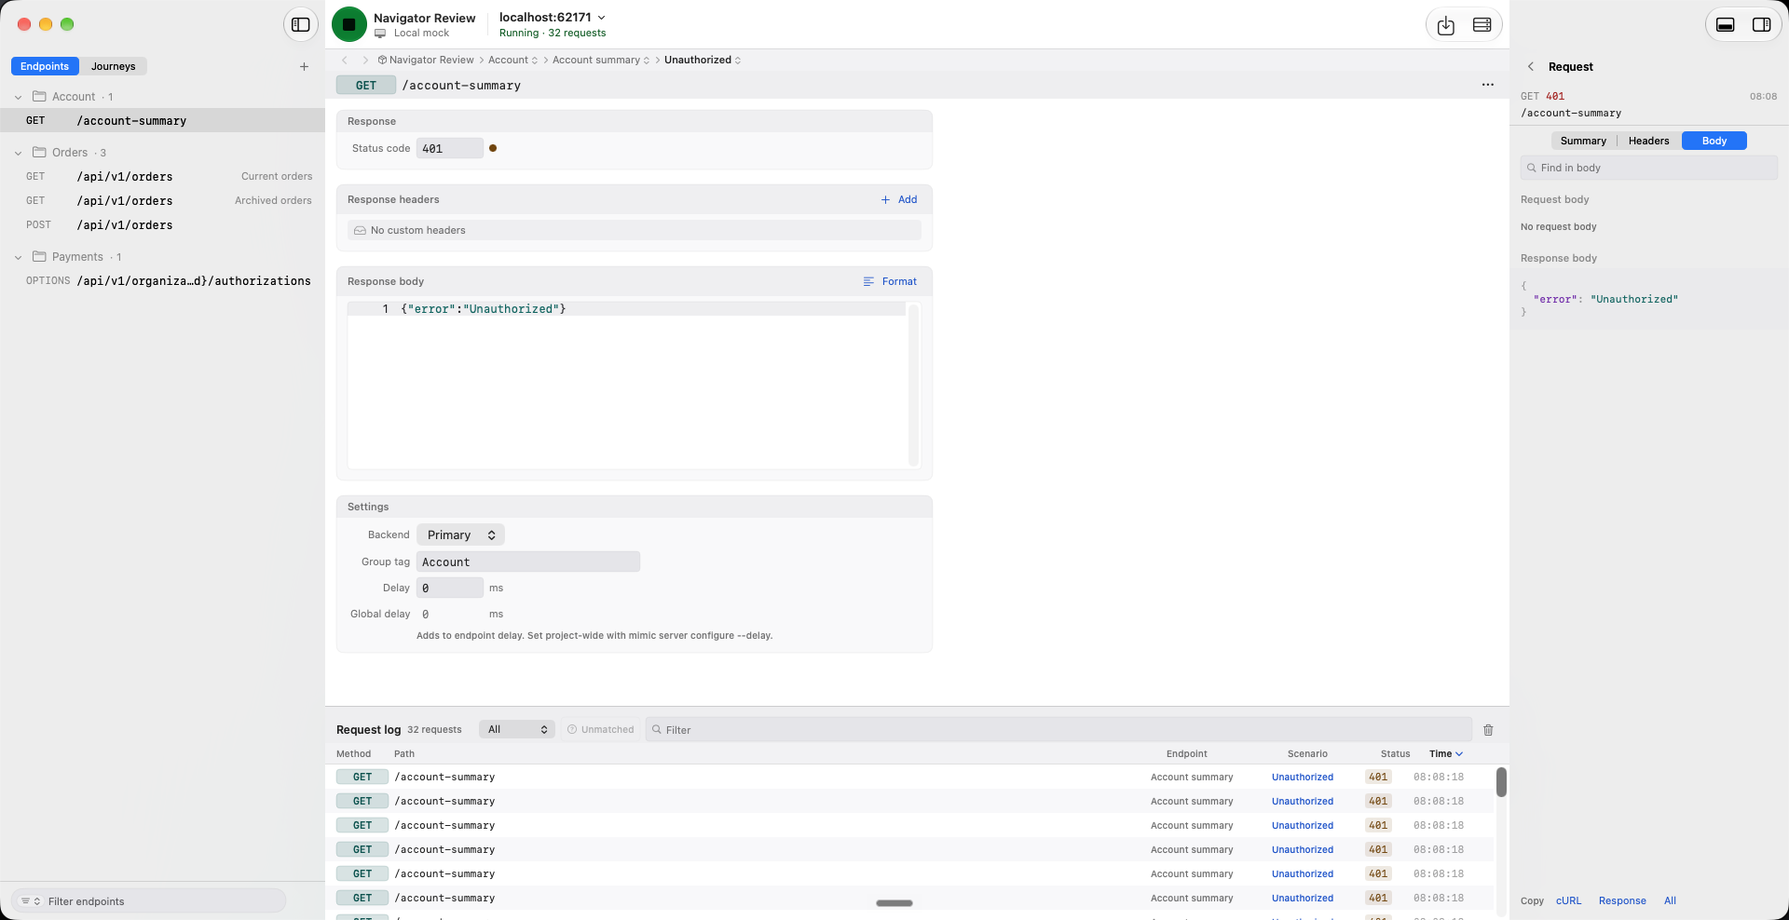
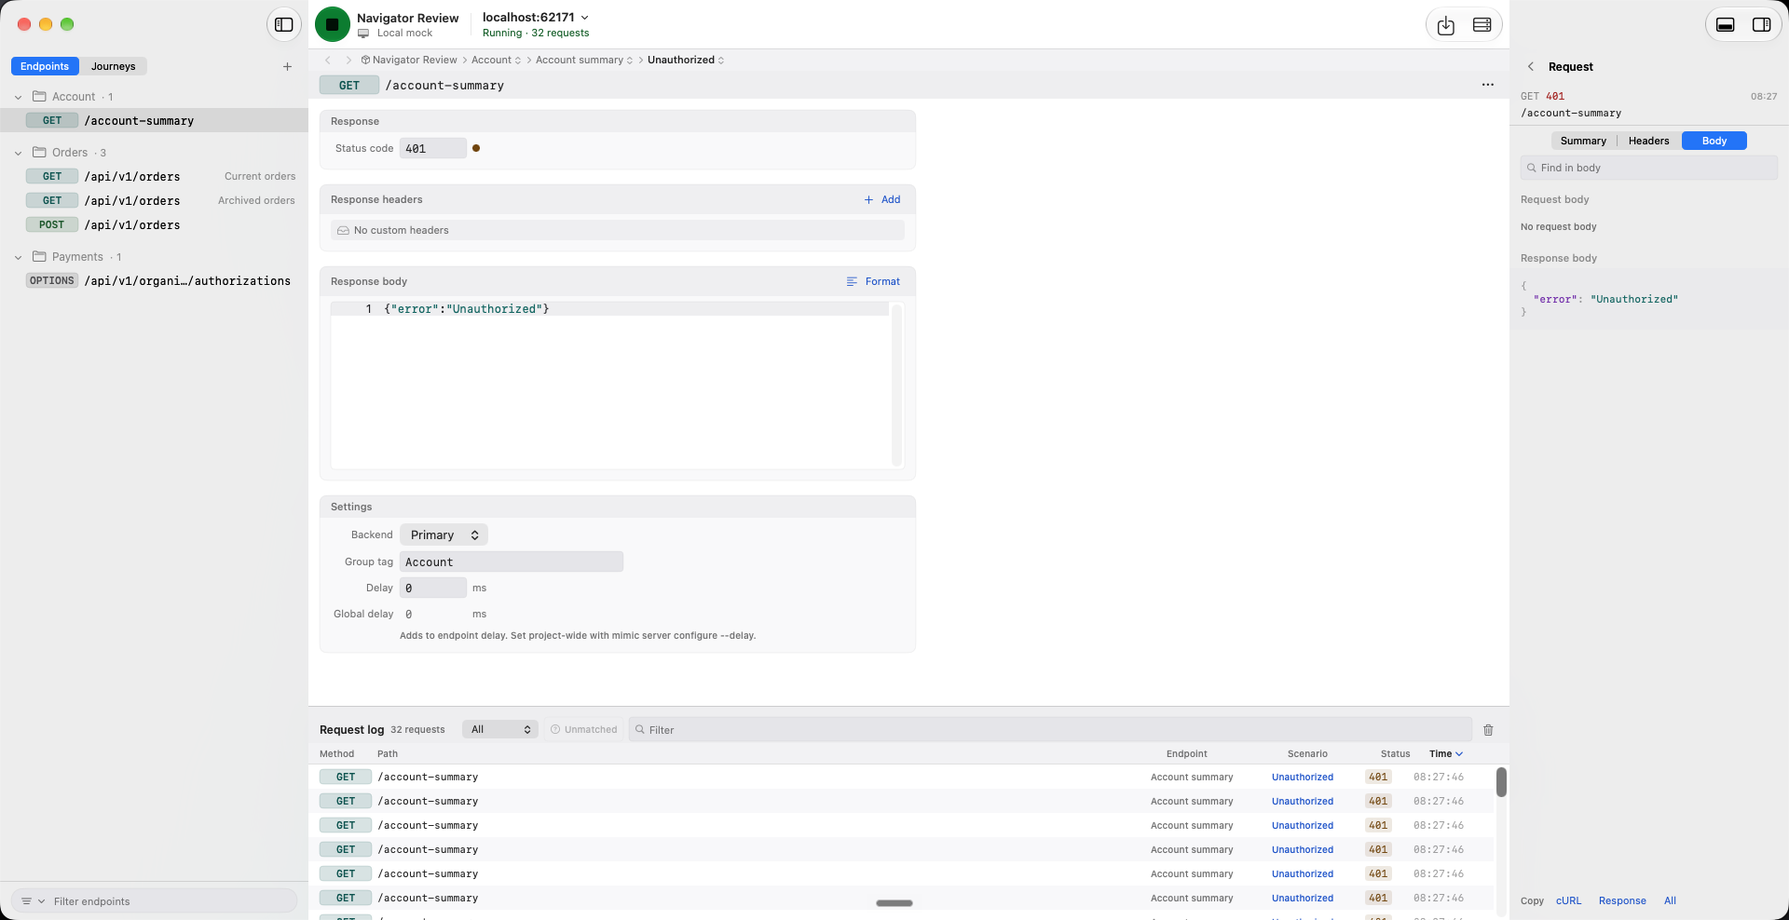
Balance navigator filter padding and restore colored method pills

diff --git a/Sources/DesignSystem/Components/DSFilterField.swift b/Sources/DesignSystem/Components/DSFilterField.swift
@@ -1,10 +1,7 @@
 import SwiftUI
 
-/// A 26-point panel search field with an optional scope selector and keyboard focus ring.
-/// The containing group preserves the field, scope and clear-control accessibility identifiers.
+/// A 26-point filter well. Scope, text, and clear controls share one vertically centered row.
 public struct DSFilterField: View {
-    /// One thing the filter can be pointed at. The `id` is what the caller stores; the `title` is
-    /// only ever shown.
     public struct Scope: Identifiable, Equatable, Sendable {
         public let id: String
         public var title: String
@@ -20,30 +17,10 @@ public struct DSFilterField: View {
     private let scopes: [Scope]
     private let placeholder: String
     private let identifier: String
-
-    /// Keyboard focus, so the well answers the Tab key the way it already answers the pointer.
-    ///
-    /// `.textFieldStyle(.plain)` discards AppKit's own focus ring, and nothing replaced it — so this
-    /// field, the request log's and the request detail's were three places in the workspace where
-    /// tabbing in changed nothing on screen. That is the same defect as a control with no hover
-    /// state, applied to the keyboard, and for Full Keyboard Access it is not a polish item.
-    /// `DSTextField` already draws exactly this ring; it was simply the only thing in the module that
-    /// did.
-    ///
-    /// The line is the whole contract, and a field that does not adopt this component still owes it
-    /// to the keyboard: `DSColors.borderFocused` at `DSStroke.focusRing`, against `DSColors.border`
-    /// at `DSStroke.hairline` at rest. Adopting is not the only way to draw it — this well is a
-    /// capsule built around a scope pill, and a header row of rectangular wells has a reason to keep
-    /// its own shape and draw the same line itself.
     @FocusState private var isFocused: Bool
 
-    public init(
-        text: Binding<String>,
-        scopeID: Binding<String>,
-        scopes: [Scope],
-        placeholder: String,
-        identifier: String
-    ) {
+    public init(text: Binding<String>, scopeID: Binding<String>, scopes: [Scope],
+                placeholder: String, identifier: String) {
         self._text = text
         self._scopeID = scopeID
         self.scopes = scopes
@@ -52,16 +29,10 @@ public struct DSFilterField: View {
     }
 
     public var body: some View {
-        HStack(spacing: DSSpacing.xs) {
-            // Absent rather than disabled when there is nothing to choose between: a dead control
-            // in a compact row is worse than no control, because it still costs width.
+        HStack(spacing: DSSpacing.sm) {
             if !scopes.isEmpty {
                 ScopeMenu(scopes: scopes, scopeID: $scopeID, identifier: identifier)
             }
-
-            // No magnifying glass. Xcode's filter bar has none, and here it would land immediately
-            // beside the scope pill — two glyphs fighting over the same corner, one of which only
-            // repeats what the placeholder already says.
             TextField(placeholder, text: $text)
                 .textFieldStyle(.plain)
                 .font(DSTypography.label)
@@ -70,62 +41,30 @@ public struct DSFilterField: View {
                 .accessibilityLabel(placeholder)
 
             if !text.isEmpty {
-                DSClearButton(
-                    text: $text,
-                    identifier: "\(identifier).clear",
-                    label: "Clear filter",
-                    help: "Clear the filter"
-                )
+                DSClearButton(text: $text, identifier: "\(identifier).clear",
+                              label: "Clear filter", help: "Clear the filter")
             }
         }
-        // The well. A full capsule, not a 4pt rounded rectangle: at this height the rectangle read
-        // as a text field that had wandered out of a form, while the capsule reads as one recessed
-        // track with controls living inside it — which is the whole point, since the scope pill and
-        // the clear button are inside it rather than beside it. Fill, hairline and padding are
-        // unchanged, so the row keeps its height and the sidebar keeps its rhythm.
-        .padding(.horizontal, DSSpacing.sm)
-        // Match request-log and request-body search fields without changing table row density.
+        .padding(.horizontal, DSSpacing.smPlus)
         .frame(height: DSControlHeight.search)
         .background {
             Capsule()
                 .fill(DSColors.tertiary)
-                // Focused, the well differs from its neighbours by *state* and by nothing else —
-                // same colour and same weight `DSTextField` uses, so the two read as one idiom.
-                .stroke(
-                    isFocused ? DSColors.borderFocused : DSColors.border,
-                    lineWidth: isFocused ? DSStroke.focusRing : DSStroke.hairline
-                )
-                // The whole track takes focus, not just the glyph-height strip the text occupies.
-                // AppKit's search field does this from anywhere inside its bezel, and here the
-                // difference is most of the control: the well is 26pt tall around one line of
-                // `codeSmall`, with `DSSpacing.sm` either side. It sits on the background rather
-                // than on the container so the text field, the scope pill and the clear button all
-                // keep the clicks that reach them — this only catches the ones that would land on
-                // nothing.
+                .stroke(isFocused ? DSColors.borderFocused : DSColors.border,
+                        lineWidth: isFocused ? DSStroke.focusRing : DSStroke.hairline)
                 .contentShape(Capsule())
                 .onTapGesture { isFocused = true }
         }
         .animation(.easeOut(duration: DSAnimation.fast), value: isFocused)
-        // Keep the child controls distinct. Naming this container can flatten its identifier onto
-        // the text field on one macOS release and hide that field on another.
+        // Preserve the individual field, scope, and clear identifiers for keyboard and UI tests.
         .accessibilityElement(children: .contain)
     }
 
-    /// The scope pill.
-    ///
-    /// Wordless while unscoped — a filter glyph and a chevron — because the unrestricted case is the
-    /// default, and spending a title on "no restriction is in force" takes the width away from the
-    /// text being typed. A scope that *is* cutting results down says so: it shows its title and
-    /// turns accent-coloured, because a filter silently hiding rows with no visible sign of it is
-    /// the worse failure, and it is worth the width every time it happens.
-    ///
-    /// AppKit realizes a SwiftUI `Menu` as a menu button rather than a button, so a UI test looks
-    /// for this under `menuButtons`/`popUpButtons`, not `buttons`.
+    /// The field supplies the bezel; this menu needs only a readable glyph and a full-height target.
     private struct ScopeMenu: View {
-        let scopes: [DSFilterField.Scope]
+        let scopes: [Scope]
         @Binding var scopeID: String
         let identifier: String
-
         @State private var isHovered = false
 
         var body: some View {
@@ -134,128 +73,44 @@ public struct DSFilterField: View {
                     Button(scope.title) { scopeID = scope.id }
                 }
             } label: {
-                HStack(spacing: DSSpacing.xxs) {
-                    // The filter glyph, not a magnifier, and that is a decision rather than an
-                    // oversight: this component narrows a list that is already on screen, and every
-                    // string around it agrees — "Filter endpoints", "Clear filter", "Choose what the
-                    // filter searches". The magnifier belongs to the request detail's "Find in body",
-                    // which really is a search. See the type's note for why one would not fit here
-                    // anyway: it would land immediately beside this pill, two glyphs in one corner.
-                    //
-                    // `inlineSmall`, the quiet end of the inline tier: this glyph qualifies the pill
-                    // rather than being the pill's affordance — the chevron below is that — so it
-                    // sits a step under the title it may appear beside.
+                HStack(spacing: DSSpacing.xs) {
                     Image(systemName: "line.3.horizontal.decrease")
-                        .font(.system(size: DSGlyph.inlineSmall, weight: .medium))
-
+                        .font(.system(size: DSGlyph.control, weight: .medium))
                     if isScoped {
-                        // Truncated, because the pill is `.fixedSize()` below and a scope title is
-                        // caller-supplied text: without a limit the pill demands its ideal width from
-                        // a well that may be 120pt wide, and an `HStack` settles that by pushing its
-                        // *leading* edge — this pill — out of view. `DSPanelHeader` shipped exactly
-                        // that, rendering "narios" for "Scenarios".
                         Text(title)
                             .font(DSTypography.caption)
                             .lineLimit(1)
                             .truncationMode(.tail)
                     }
-
-                    // At rest this is the *only* thing saying the pill is a control, because the pill
-                    // has no title until a scope is chosen. Without a visible mark it reads as
-                    // decoration sitting where a search field's magnifier usually sits, and the scope
-                    // is never discovered — which is what a look at the running sidebar found.
-                    //
-                    // `chevron.up.chevron.down`, not a lone `chevron.down`: this picks one of N values
-                    // and shows the one in force, which is a pop-up, and it is the same mark
-                    // `BreadcrumbJumpBar` puts on a crumb that has siblings. `DSGlyph.indicator` is
-                    // the window's menu-indicator size, and it sits on `DSGlyph.minimum` — the floor
-                    // below which a mark stops reading as a mark. This pill is the case that floor
-                    // was written for.
-                    //
-                    // It takes the pill's own colour rather than dropping to `labelTertiary` the way
-                    // the breadcrumb's does. There a title carries the message and the chevron only
-                    // annotates it; here there is no title to annotate.
-                    Image(systemName: "chevron.up.chevron.down")
+                    Image(systemName: "chevron.down")
                         .font(.system(size: DSGlyph.indicator, weight: .semibold))
                 }
-                .foregroundStyle(foreground)
-                .padding(.horizontal, DSSpacing.xs)
-                .padding(.vertical, 1)
+                .foregroundStyle(isScoped ? DSColors.accentText
+                                 : isHovered ? DSColors.labelPrimary : DSColors.labelSecondary)
+                .padding(.horizontal, DSSpacing.xxs)
+                .frame(height: DSControlHeight.field)
                 .background {
-                    // Fill *and* hairline. The fill on its own was `secondary` sitting on the field's
-                    // `tertiary` track: 3% apart in light mode, and inverted in dark, where
-                    // `secondary` is the *darker* of the two — so the pill read as a deeper recess
-                    // than the well it sits inside rather than as a control on top of it. No surface
-                    // token is raised against `tertiary` in both appearances, which is precisely the
-                    // case `DSButton`'s secondary variant states a hairline for: a control stays
-                    // visible on any surface only when it does not borrow that surface's colour.
-                    Capsule()
-                        .fill(DSColors.secondary)
-                        .stroke(DSColors.border, lineWidth: DSStroke.hairline)
+                    RoundedRectangle(cornerRadius: DSCornerRadius.sm)
+                        .fill(isHovered || isScoped ? DSColors.accentSubtle : .clear)
                 }
+                .contentShape(Rectangle())
             }
             .onHover { isHovered = $0 }
             .animation(.easeOut(duration: DSAnimation.micro), value: isHovered)
-            // `.button` + `.plain`, the same pairing `BreadcrumbJumpBar`'s crumb menu wears, and for
-            // the same reason: the label above draws every pixel of this control — its own foreground,
-            // its own capsule, its own chevron — so the button style must contribute nothing.
-            //
-            // `.plain` and not the `.borderless` that Apple's deprecation message for
-            // `.menuStyle(.borderlessButton)` literally names ("use `menuStyle(.button)` and
-            // `buttonStyle(.borderless)`"). That recipe is right about the *menu* style; it is the
-            // wrong half to copy for a label that draws itself, because `.borderless` supplies a
-            // system accent tint to content whose colour this pill sets and switches on `isScoped`.
-            //
-            // The note it replaces cited the deprecation message and stopped there, so nothing in
-            // this file ever addressed the only thing that actually differed from the breadcrumb —
-            // one word — while a comment on each side defended its own. That is what was fixed. What
-            // is *not* claimed: that the style was why a look at the running sidebar found this pill
-            // rendering as a bare glyph. The fill below is a proven cause of that on its own, and the
-            // two were not isolated from each other.
             .menuStyle(.button)
             .buttonStyle(.plain)
-            // The chevron is drawn above; the system indicator would be a second one.
             .menuIndicator(.hidden)
-            // Without this the menu stretches and takes the width off the text field.
             .fixedSize()
             .help("Choose what the filter searches")
-            // The pill carries no text while unscoped, so the label and value are the entire reading
-            // VoiceOver gets — the glyphs say nothing on their own.
             .accessibilityIdentifier("\(identifier).scope")
             .accessibilityLabel("Filter scope")
             .accessibilityValue(title)
         }
 
-        /// Accent whenever a scope is in force, because a filter quietly hiding rows has to say so
-        /// without being pointed at. Otherwise the same lift every other menu-shaped control in the
-        /// window gives the pointer — `DSPanelHeaderButton`, the breadcrumb's crumbs and the editor's
-        /// more menu all go `labelSecondary` → `labelPrimary`; this pill was the one that stayed inert.
-        private var foreground: Color {
-            if isScoped { return DSColors.accentText }
-            return isHovered ? DSColors.labelPrimary : DSColors.labelSecondary
-        }
-
-        /// The scope on show: the one `scopeID` names, or the first as a fallback.
-        ///
-        /// A `scopeID` matching nothing — a restored preference pointing at a scope that has since
-        /// been renamed — would otherwise leave the pill blank, and a blank pill reads as a
-        /// rendering failure rather than a stale setting. Showing the first scope keeps the control
-        /// legible; keeping `scopeID` valid is the caller's job.
         private var selection: DSFilterField.Scope? {
             scopes.first { $0.id == scopeID } ?? scopes.first
         }
-
-        private var title: String {
-            selection?.title ?? ""
-        }
-
-        /// Whether the filter is restricting anything. The first scope is the unrestricted one by
-        /// convention — callers put their "Any" sentinel there — so anything after it is a cut the
-        /// user has to be able to see. Read off ``selection`` rather than `scopeID` so the colour,
-        /// the title and the fallback can never disagree about which scope is in force.
-        private var isScoped: Bool {
-            selection?.id != scopes.first?.id
-        }
+        private var title: String { selection?.title ?? "" }
+        private var isScoped: Bool { selection?.id != scopes.first?.id }
     }
-
 }

diff --git a/MimicUITests/NavigatorUITests.swift b/MimicUITests/NavigatorUITests.swift
@@ -142,8 +142,11 @@ final class NavigatorUITests: MimicUITestCase {
         let shell = WorkspaceShellPage(app: app)
         workspace.fillWindow()
         let endpointFooter = navigator.footer.frame
+        let endpointFilterMidY = navigator.endpointFilter.frame.midY
         let endpointHeader = navigator.header.frame
         let endpointRowHeight = navigator.rowHeight(named: "Account summary")
+        XCTAssertEqual(shell.panel("sidebar").frame.maxX - navigator.endpointFilter.frame.maxX, 20, accuracy: 1,
+                       "Inactive journey controls must not leave an empty slot beside the filter")
         XCTAssertEqual(endpointRowHeight, 26, accuracy: 1)
         XCTAssertEqual(navigator.group("Account").frame.minX - shell.panel("sidebar").frame.minX, 12, accuracy: 1)
         XCTAssertEqual(shell.panel("sidebar").frame.maxX - navigator.element("sidebar.addEndpointButton").frame.maxX, 12, accuracy: 1)
@@ -166,7 +169,9 @@ final class NavigatorUITests: MimicUITestCase {
         shell.journeysTab.click()
         XCTAssertTrue(navigator.journeyFilter.waitForExistence(timeout: 5))
         XCTAssertEqual(navigator.header.frame.midY, endpointHeader.midY, accuracy: 1)
-        XCTAssertEqual(navigator.footer.frame.midY, endpointFooter.midY, accuracy: 1)
+        XCTAssertEqual(navigator.journeyFilter.frame.midY, endpointFilterMidY, accuracy: 1)
+        XCTAssertEqual(navigator.journeyFilter.frame.minX - shell.panel("sidebar").frame.minX, 20, accuracy: 1)
+        XCTAssertEqual(shell.panel("sidebar").frame.maxX - navigator.journeyFilter.frame.maxX, 20, accuracy: 1)
         XCTAssertEqual(navigator.rowHeight(named: "Empty journey"), endpointRowHeight, accuracy: 1)
         navigator.filter(navigator.journeyFilter, text: "authorization")
         XCTAssertTrue(navigator.row(named: "Payment succeeds").waitForExistence(timeout: 5))

diff --git a/Sources/DesignSystem/Components/DSNavigator.swift b/Sources/DesignSystem/Components/DSNavigator.swift
@@ -7,7 +7,6 @@ public enum DSNavigatorMetrics {
     public static let inset: CGFloat = 12
     public static let indentation: CGFloat = 16
     public static let iconSlot: CGFloat = 16
-    public static let methodWidth: CGFloat = 48
     public static let metadataWidth: CGFloat = 88
     public static let headerHeight: CGFloat = 38
     public static let footerHeight: CGFloat = 42
@@ -77,10 +76,11 @@ public struct DSNavigatorFooter<Status: View>: View {
     private let placeholder: String
     private let identifier: String
     private let status: Status
+    private let showsStatus: Bool
 
     public init(
         text: Binding<String>, scopeID: Binding<String>, scopes: [DSFilterField.Scope],
-        placeholder: String, identifier: String, @ViewBuilder status: () -> Status
+        placeholder: String, identifier: String, showsStatus: Bool = true, @ViewBuilder status: () -> Status
     ) {
         self._text = text
         self._scopeID = scopeID
@@ -88,6 +88,7 @@ public struct DSNavigatorFooter<Status: View>: View {
         self.placeholder = placeholder
         self.identifier = identifier
         self.status = status()
+        self.showsStatus = showsStatus
     }
 
     public var body: some View {
@@ -96,7 +97,9 @@ public struct DSNavigatorFooter<Status: View>: View {
                 text: $text, scopeID: $scopeID, scopes: scopes,
                 placeholder: placeholder, identifier: identifier
             )
-            status.frame(width: DSControlHeight.field, height: DSControlHeight.field)
+            if showsStatus {
+                status.frame(width: DSControlHeight.field, height: DSControlHeight.field)
+            }
         }
         .padding(.horizontal, DSNavigatorMetrics.inset)
         .frame(height: DSNavigatorMetrics.footerHeight)

diff --git a/Sources/AppFeatures/AppCore/WorkspaceView.swift b/Sources/AppFeatures/AppCore/WorkspaceView.swift
@@ -835,7 +835,8 @@ struct WorkspaceView: View {
                 scopeID: $endpointMethodScope,
                 scopes: navigatorTab == .endpoints ? SidebarView.methodScopes : [],
                 placeholder: navigatorTab == .endpoints ? "Filter endpoints" : "Filter journeys",
-                identifier: navigatorTab == .endpoints ? "sidebar.filter" : "journeys.filter"
+                identifier: navigatorTab == .endpoints ? "sidebar.filter" : "journeys.filter",
+                showsStatus: appState.activeJourney != nil
             ) {
                 if let active = appState.activeJourney {
                     DSPanelHeaderButton(
@@ -850,8 +851,6 @@ struct WorkspaceView: View {
                         appState.selectedJourneyID = active.id
                     }
                     .accessibilityValue("\(active.name), \(activeJourneyProgress ?? "Active")")
-                } else {
-                    Color.clear.accessibilityHidden(true)
                 }
             }
         }

diff --git a/Sources/AppFeatures/WorkspaceFeature/SidebarView.swift b/Sources/AppFeatures/WorkspaceFeature/SidebarView.swift
@@ -357,11 +357,10 @@ struct EndpointSidebarRow: View {
 
     var body: some View {
         HStack(spacing: DSSpacing.sm) {
-            Text(endpoint.method.rawValue)
-                .font(DSTypography.codeSmall)
-                .foregroundStyle(isSelected ? .primary : .secondary)
-                .frame(width: DSNavigatorMetrics.methodWidth, alignment: .leading)
-                .accessibilityLabel("\(endpoint.method.rawValue) method")
+            DSMethodBadge(
+                method: endpoint.method.rawValue, size: .compact,
+                identifier: "navigator.\(endpoint.id.uuidString)"
+            )
 
             Text(endpoint.graphqlOperation.flatMap { $0.isEmpty ? nil : $0 } ?? endpoint.path)
                 .font(DSTypography.code)

diff --git a/docs/evidence/navigator-inspector/README.md b/docs/evidence/navigator-inspector/README.md
@@ -14,6 +14,12 @@ actual endpoint/journey row heights, header insets, consecutive-row spacing, col
 filter reveal, group creation/moving/clearing, and non-overlapping compact controls. Persistence
 checks cover migrating an existing store and saving/reopening group membership.
 
+Filter and method-pill follow-up: endpoint rows now use the same compact colored method badges
+as journey steps. The filter has balanced eight-point inner padding, a larger scope control, and
+no empty active-journey slot. The follow-up passed 72 design-system and four workspace rendering
+tests plus three focused UI flows (geometry/filter retention, method scope/active-journey reveal,
+and scenario/traffic navigation). Endpoint and traffic captures below were refreshed after this change.
+
 ## Endpoints, wide
 
 ![Endpoints, wide](navigator-endpoints-wide.png)

diff --git a/CHANGELOG.md b/CHANGELOG.md
@@ -7,6 +7,9 @@ versions follow [Semantic Versioning](https://semver.org/spec/v2.0.0.html).
 
 ### Improved
 
+- Use the same colored HTTP method pills in endpoint navigation and journey steps. Balance filter
+  padding and center its controls; reclaim the empty footer slot when no journey is active.
+
 - Organize journeys into saved groups with the same disclosure rows, spacing, indentation, and
   inline counts as endpoints. Edit Group in the journey editor or use `journey create/update --group`;
   filtering and the active-journey shortcut reveal matching grouped journeys.
